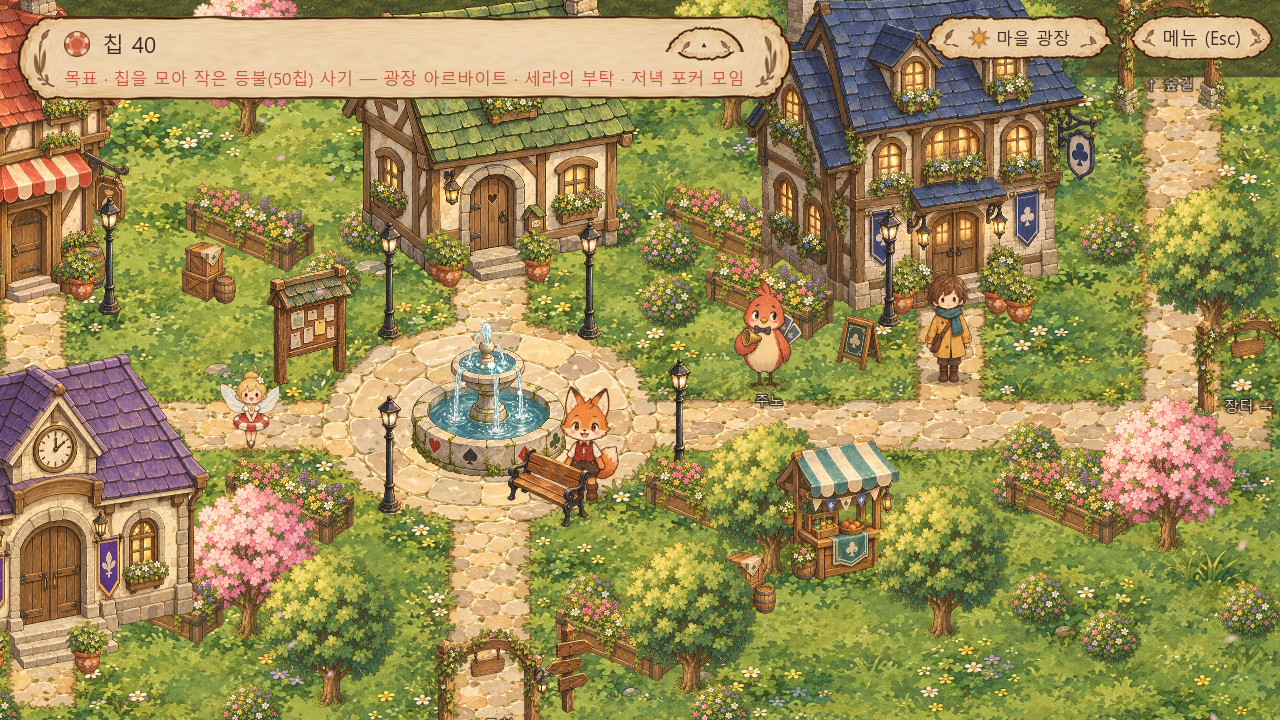
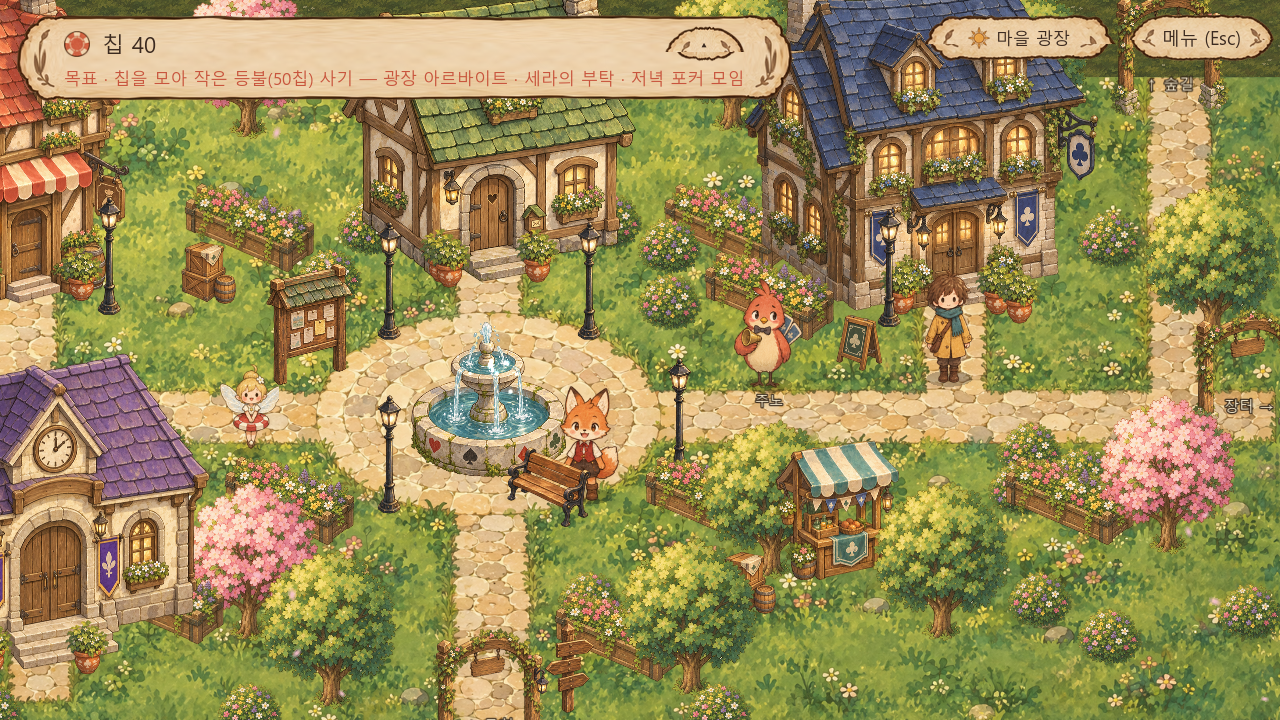
Square ground repainted in 3/4 view (elliptical plaza rings, foreshortened paths); before/after

Changed region(s): [[0.0, 0.0917, 1.0, 1.0], [0.4688, 0.1222, 0.5938, 0.3361]]

diff --git a/tools/art/build_square_art.py b/tools/art/build_square_art.py
@@ -48,9 +48,11 @@ def lights(size, pts):
 
 S = {}
 
-# --- ground: one painted plate for the whole square (1600 x 1100)
-g = Image.open(os.path.join(SRC, 'raw', 'ground_plate.png')).convert('RGB')
-g.resize((2048, 1408), Image.LANCZOS).save(os.path.join(SQ, 'final', 'ground.png'), optimize=True)
+# --- ground: one painted plate for the whole square (1600 x 1100 in place units). It is painted
+# in the square's 3/4 view (ground_plate_34a: stones foreshortened, plaza in elliptical rings), so it
+# is stored at its painted ratio; the location's tilt (0.62) brings it back to that ratio on screen.
+g = Image.open(os.path.join(SRC, 'raw', 'ground_plate_34a.png')).convert('RGB')
+g.resize((2048, round(2048 * g.height / g.width)), Image.LANCZOS).save(os.path.join(SQ, 'final', 'ground.png'), optimize=True)
 S['sq.ground'] = {'path': RES + 'ground.png', 'size': [1600, 1100], 'anchor': [0, 0]}
 
 # --- grass beyond the square's edge: the grass swatch made seamless (half-shifted blend)

diff --git a/docs/art_direction/SQUARE_ART_LOG.md b/docs/art_direction/SQUARE_ART_LOG.md
@@ -35,3 +35,8 @@
 - 걸을 수 있는 곳: 화단·수풀·상자·화분을 부딪히는 물체로 바꿈. 광장 밖은 풀을 어둡게 깔아 경계가 보이게 함
 - 남은 점: 바닥 그림은 원래 위에서 본 그림을 눌러 쓴 것이라 돌 모양이 납작함. 이 방향이 맞으면 바닥만 3/4 시점으로 다시 그리면 됨
 - 확인: path_a, path_b, path_c, cc04(모든 장소 걷기)와 슬라이스 흐름 통과
+
+## 바닥 3/4 다시 그리기
+- 비교: `square_ground34_before_after.png`
+- 광장 바닥만 다시 그림(`art_src/square/raw/ground_plate_34a.png`). 3/4 비율로 눌러 둔 레이아웃 안내를 참조로 줌. 광장 돌은 분수를 중심으로 타원 고리, 길 돌은 깊이 방향으로 납작하게 그림. 두 장 중 레이아웃이 더 정확한 A를 씀(B는 `ground_plate_34b.png`로 보관). 약 5.5크레딧
+- 캐릭터 크기(1.35배)와 다른 그림은 그대로
